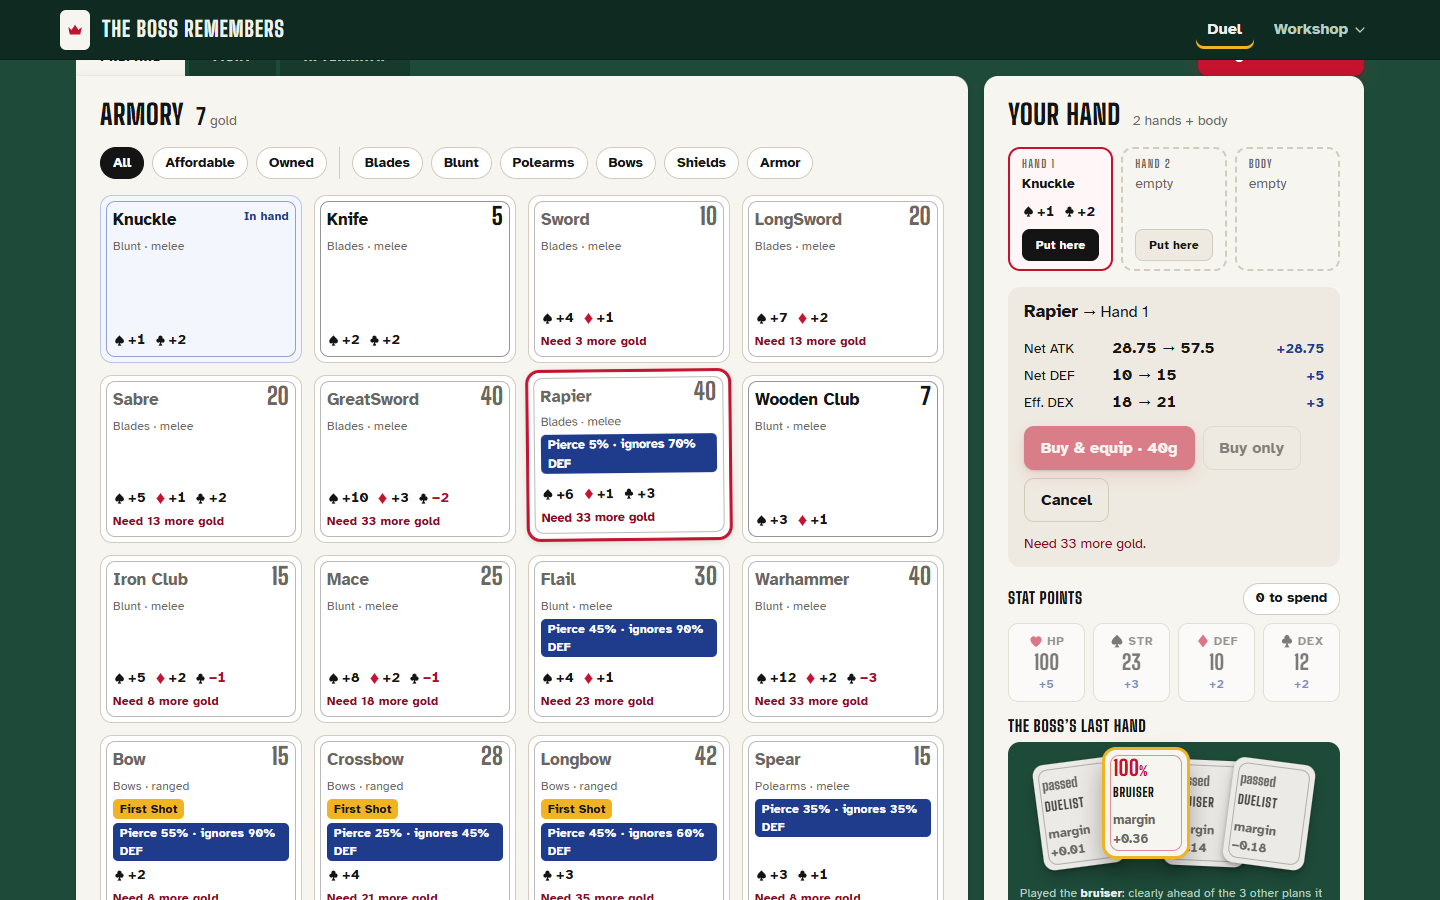
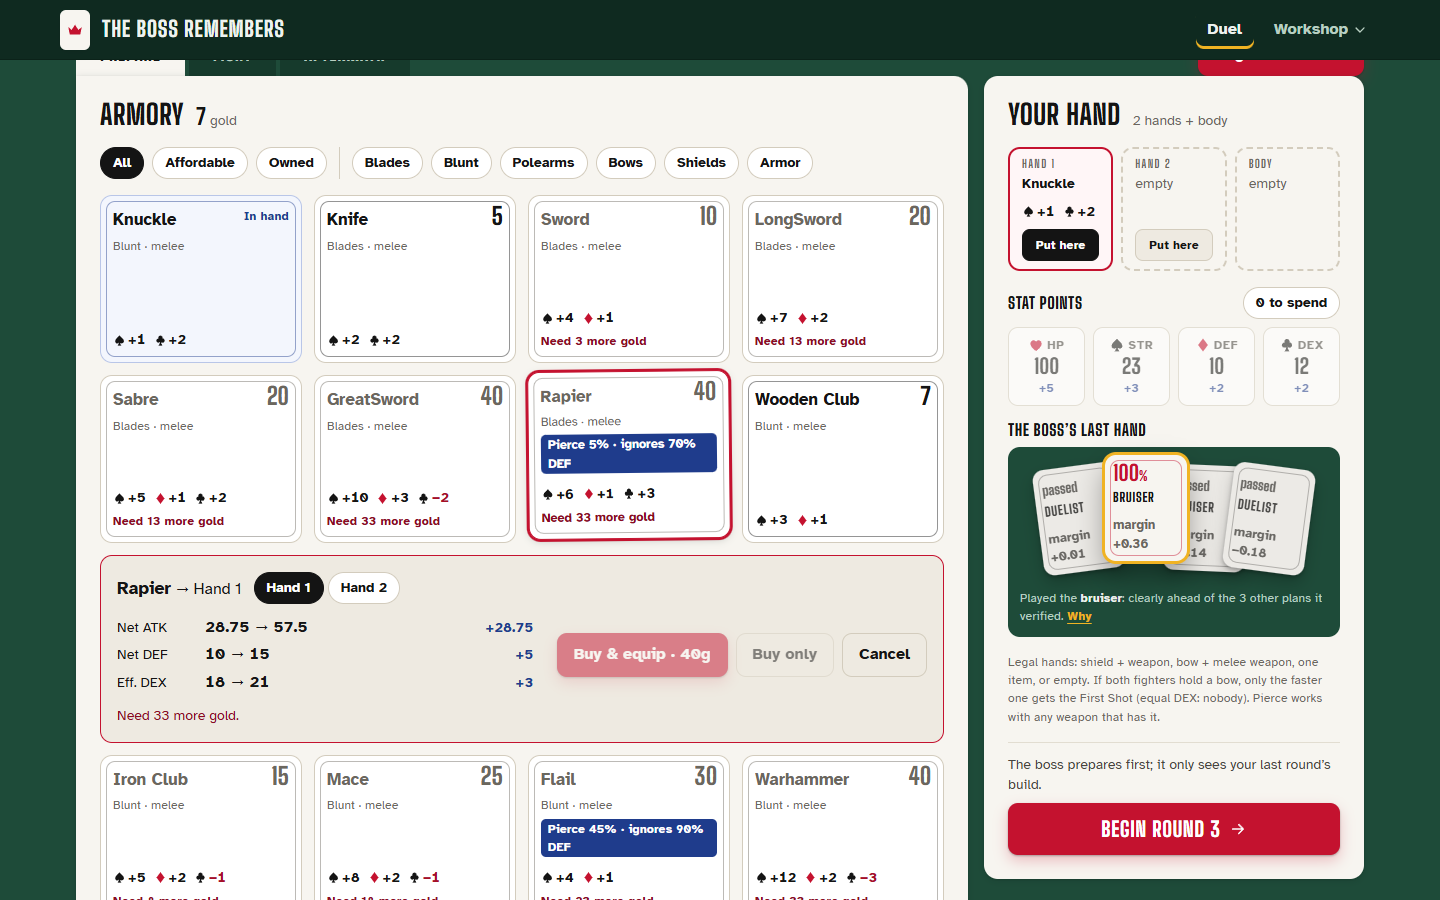
V2 Phase 7: Armory preview opens under the picked card (stays in view)

Changed region(s): [[0.0625, 0.5911, 0.6562, 1.0], [0.6562, 0.3111, 0.9688, 1.0], [0.5, 0.9644, 0.625, 1.0]]

diff --git a/client/src/duel/Armory.tsx b/client/src/duel/Armory.tsx
@@ -3,7 +3,7 @@
  * Net numbers (server-computed, nothing written), then "Buy & equip" does both in one step. The hand (two hands +
  * body) and stat points sit beside it. The server re-validates every action; its message is shown if refused.
  */
-import { useEffect, useMemo, useState } from 'react';
+import { Fragment, useEffect, useMemo, useState } from 'react';
 import { api, type BuildPreview, type Item, type RunView, type StatKey } from '../api';
 import { StatPip } from '../ui/Icon';
 import { ErrorBox, useToast } from '../ui/states';
@@ -116,8 +116,48 @@ export function Armory({ view, onChange, begin, onShowAftermath }: { view: RunVi
         </div>
         <div className="item-grid">
           {items.map((i) => (
-            <ItemCard key={i.id} item={i} owned={p.inventory.includes(i.id)} equipped={equippedIds.includes(i.id)} gold={p.gold}
-              selected={picked === i.id} onPick={() => { setPicked(picked === i.id ? null : i.id); setSlot(undefined); }} />
+            <Fragment key={i.id}>
+              <ItemCard item={i} owned={p.inventory.includes(i.id)} equipped={equippedIds.includes(i.id)} gold={p.gold}
+                selected={picked === i.id} onPick={() => { setPicked(picked === i.id ? null : i.id); setSlot(undefined); }} />
+              {picked === i.id && pickedItem && proposal && (
+                <div className="pick-panel" aria-live="polite" role="region" aria-label={`Preview: ${pickedItem.name}`}>
+                  <div className="pick-head">
+                    <p className="pick-title"><b>{pickedItem.name}</b> → {SLOT_LABEL[proposal!.slot]}</p>
+                    {pickedItem.category !== 'armour' && (
+                      <span className="pick-slots" role="group" aria-label="Hand">
+                        {(['hand1', 'hand2'] as const).map((h) => (
+                          <button key={h} className={`chip ${proposal!.slot === h ? 'is-on' : ''}`} aria-pressed={proposal!.slot === h} onClick={() => setSlot(h)}>{SLOT_LABEL[h]}</button>
+                        ))}
+                      </span>
+                    )}
+                  </div>
+                  {preview?.problem && <p className="pick-problem">{preview.problem}</p>}
+                  {preview?.preview && (
+                    <div className="deltas">
+                      <Delta label="Net ATK" from={preview.current.netAtk} to={preview.preview.netAtk} />
+                      <Delta label="Net DEF" from={preview.current.netDef} to={preview.preview.netDef} />
+                      <Delta label="Eff. DEX" from={preview.current.effDex} to={preview.preview.effDex} />
+                    </div>
+                  )}
+                  <div className="pick-actions">
+                    {ownsPicked ? (
+                      <button className="btn btn-primary" disabled={act.busy || !!preview?.problem} onClick={() => apply(() => api.setLoadout(runId, proposal!.loadout), `${pickedItem.name} equipped`)}>Equip</button>
+                    ) : (
+                      <>
+                        <button className="btn btn-primary" disabled={act.busy || pickedItem.cost > p.gold || !!preview?.problem}
+                          title={pickedItem.cost > p.gold ? `Need ${pickedItem.cost - p.gold} more gold` : undefined}
+                          onClick={() => apply(() => api.buy(runId, pickedItem.id, proposal!.loadout), `Bought and equipped ${pickedItem.name}`)}>
+                          Buy &amp; equip · {pickedItem.cost}g
+                        </button>
+                        <button className="btn btn-quiet" disabled={act.busy || pickedItem.cost > p.gold} onClick={() => apply(() => api.buy(runId, pickedItem.id), `Bought ${pickedItem.name}`)}>Buy only</button>
+                      </>
+                    )}
+                    <button className="btn btn-quiet" onClick={() => { setPicked(null); setSlot(undefined); }}>Cancel</button>
+                  </div>
+                  {pickedItem.cost > p.gold && !ownsPicked && <p className="pick-hint">Need {pickedItem.cost - p.gold} more gold.</p>}
+                </div>
+              )}
+            </Fragment>
           ))}
           {!items.length && <p className="muted-ink">Nothing here yet.</p>}
         </div>
@@ -144,36 +184,6 @@ export function Armory({ view, onChange, begin, onShowAftermath }: { view: RunVi
             );
           })}
         </div>
-
-        {pickedItem && (
-          <div className="pick-panel" aria-live="polite">
-            <p className="pick-title"><b>{pickedItem.name}</b> → {SLOT_LABEL[proposal!.slot]}</p>
-            {preview?.problem && <p className="pick-problem">{preview.problem}</p>}
-            {preview?.preview && (
-              <div className="deltas">
-                <Delta label="Net ATK" from={preview.current.netAtk} to={preview.preview.netAtk} />
-                <Delta label="Net DEF" from={preview.current.netDef} to={preview.preview.netDef} />
-                <Delta label="Eff. DEX" from={preview.current.effDex} to={preview.preview.effDex} />
-              </div>
-            )}
-            <div className="pick-actions">
-              {ownsPicked ? (
-                <button className="btn btn-primary" disabled={act.busy || !!preview?.problem} onClick={() => apply(() => api.setLoadout(runId, proposal!.loadout), `${pickedItem.name} equipped`)}>Equip</button>
-              ) : (
-                <>
-                  <button className="btn btn-primary" disabled={act.busy || pickedItem.cost > p.gold || !!preview?.problem}
-                    title={pickedItem.cost > p.gold ? `Need ${pickedItem.cost - p.gold} more gold` : undefined}
-                    onClick={() => apply(() => api.buy(runId, pickedItem.id, proposal!.loadout), `Bought and equipped ${pickedItem.name}`)}>
-                    Buy &amp; equip · {pickedItem.cost}g
-                  </button>
-                  <button className="btn btn-quiet" disabled={act.busy || pickedItem.cost > p.gold} onClick={() => apply(() => api.buy(runId, pickedItem.id), `Bought ${pickedItem.name}`)}>Buy only</button>
-                </>
-              )}
-              <button className="btn btn-quiet" onClick={() => { setPicked(null); setSlot(undefined); }}>Cancel</button>
-            </div>
-            {pickedItem.cost > p.gold && !ownsPicked && <p className="pick-hint">Need {pickedItem.cost - p.gold} more gold.</p>}
-          </div>
-        )}
 
         <div className="points">
           <header className="points-head">

diff --git a/client/src/styles/app.css b/client/src/styles/app.css
@@ -171,7 +171,7 @@ input[type='number'] { width: 6rem; font-variant-numeric: tabular-nums; }
 .armory { border-top-left-radius: 0; }
 .filters { display: flex; flex-wrap: wrap; gap: var(--s2); margin-bottom: var(--s4); }
 .filters-sep { width: 1px; background: var(--line); margin: 0 var(--s1); }
-.item-grid { display: grid; grid-template-columns: repeat(auto-fill, minmax(var(--module), 1fr)); gap: var(--s3); }
+.item-grid { display: grid; grid-template-columns: repeat(auto-fill, minmax(var(--module), 1fr)); grid-auto-flow: row dense; gap: var(--s3); }
 .item-card {
   --court-ink: var(--ink);
   position: relative; display: flex; flex-direction: column; align-items: flex-start; gap: 4px; min-height: 168px; padding: var(--s3);
@@ -206,7 +206,10 @@ input[type='number'] { width: 6rem; font-variant-numeric: tabular-nums; }
 .slot-empty { color: var(--ink-3); }
 .slot-put { margin-top: auto; min-height: 32px; border: 1px solid var(--line); border-radius: 8px; background: var(--stock-2); font-size: var(--fs-xs); font-weight: 700; }
 .slot-put[aria-pressed='true'] { background: var(--ink); color: #fff; border-color: var(--ink); }
-.pick-panel { display: grid; gap: var(--s3); padding: var(--s3) var(--s4); border-radius: 12px; background: var(--stock-2); }
+.pick-panel { grid-column: 1 / -1; display: grid; grid-template-columns: minmax(0, 1fr) auto; gap: var(--s3) var(--s5); align-items: center; padding: var(--s4); border-radius: 12px; background: var(--stock-2); border: 1.5px solid var(--red); animation: deal var(--t-med) var(--ease-out); }
+.pick-panel > .pick-head, .pick-panel > .pick-problem, .pick-panel > .pick-hint { grid-column: 1 / -1; }
+.pick-head { display: flex; flex-wrap: wrap; align-items: center; gap: var(--s3); }
+.pick-slots { display: inline-flex; gap: var(--s1); }
 .pick-title b { font-size: 1.1rem; }
 .pick-problem { color: var(--err-ink); font-weight: 700; font-size: var(--fs-sm); }
 .pick-hint { color: var(--err-ink); font-size: var(--fs-sm); }
@@ -429,6 +432,7 @@ input[type='number'] { width: 6rem; font-variant-numeric: tabular-nums; }
   .phase { flex: 1; padding: 0 var(--s2); font-size: 1rem; }
   .panel, .armory, .hand, .fight, .memory, .resume { padding: var(--s4); }
   .item-grid { grid-template-columns: repeat(2, minmax(0, 1fr)); }
+  .pick-panel { grid-template-columns: 1fr; }
   .fight-top { grid-template-columns: 1fr 1fr; }
   .fight-opening { grid-column: 1 / -1; order: 3; }
   .turn { grid-template-columns: 1fr; gap: var(--s1); }

diff --git a/client/scripts/capture-review.py b/client/scripts/capture-review.py
@@ -46,6 +46,9 @@ try:
     js(f"({click_tab})('Prepare')"); time.sleep(1)
     js("[...document.querySelectorAll('.item-card')].find(b=>b.textContent.includes('Rapier')).click()"); time.sleep(1.5)
     js("document.querySelector('.armory').scrollIntoView({block:'start'}); window.scrollBy(0,-76)"); time.sleep(0.5); shot("desktop-armory-preview.png")
+    js("[...document.querySelectorAll('.item-card')].find(b=>b.textContent.includes('Great Shield')).click()"); time.sleep(1.5)
+    js("document.querySelector('.pick-panel').scrollIntoView({block:'center'})"); time.sleep(0.5); shot("desktop-armory-lowpick.png")
+    js("[...document.querySelectorAll('.pick-panel .btn')].find(b=>b.textContent==='Cancel').click()"); time.sleep(0.4)
     js("document.querySelector('.hand .begin').scrollIntoView({block:'end'}); window.scrollBy(0,16)"); time.sleep(0.5); shot("desktop-prepare-hand.png")
     cmd("Page.navigate", url="http://localhost:5173/#/duel/2"); time.sleep(3)
     js("window.scrollTo(0,0)"); shot("mobile.png", 390, 844, True)
